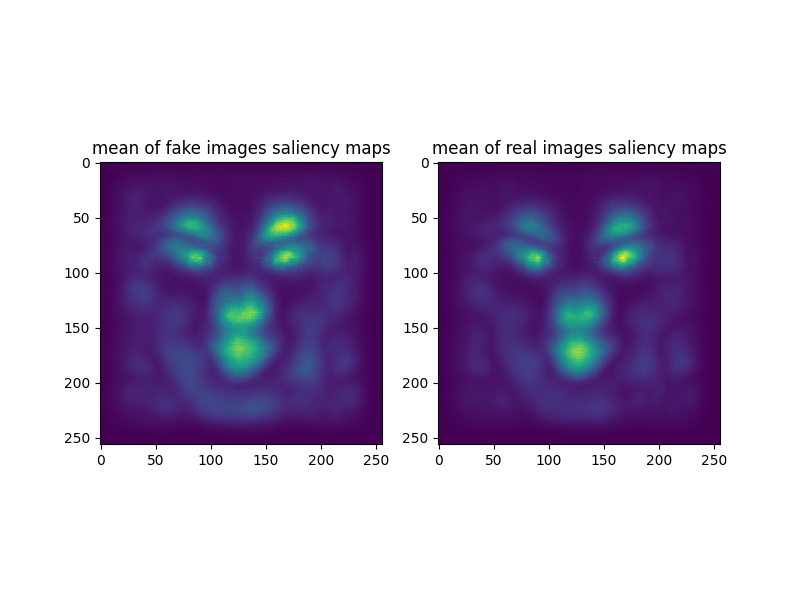
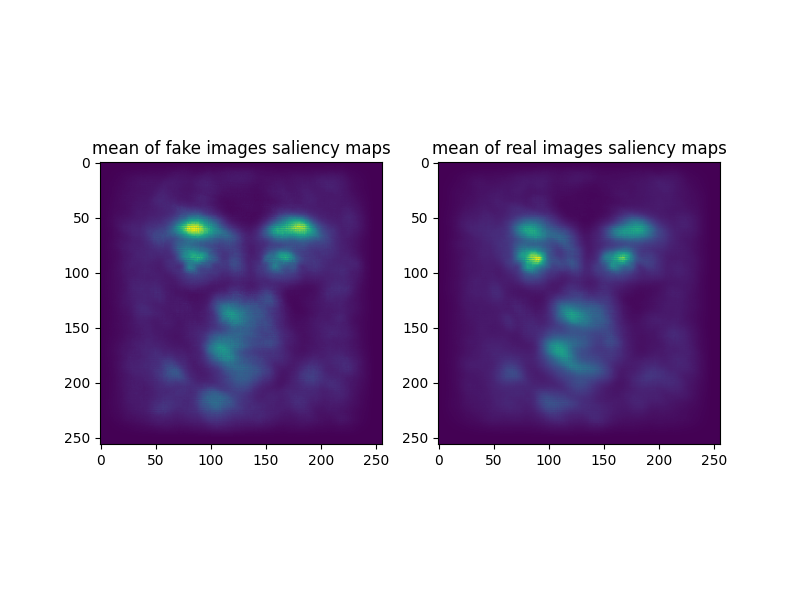
update the photo

Changed region(s): [[0.1875, 0.33, 0.4062, 0.69], [0.625, 0.33, 0.8438, 0.66], [0.6562, 0.66, 0.7188, 0.69]]

diff --git a/solution/saliency_map.py b/solution/saliency_map.py
@@ -27,7 +27,7 @@ def parse_args():
                         default='SimpleNet', type=str,
                         help='Model name: SimpleNet or XceptionBased.')
     parser.add_argument('--checkpoint_path', '-cpp',
-                        default='checkpoints/fakes_dataset_SimpleNet_SGD.pt', type=str,
+                        default='checkpoints/fakes_dataset_SimpleNet_Adam.pt', type=str,
                         help='Path to model checkpoint.')
     parser.add_argument('--dataset', '-d',
                         default='fakes_dataset', type=str,
